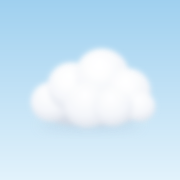
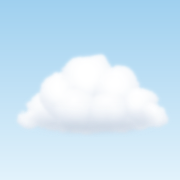
버전2: 구름을 크고 사실적으로, 상자 없이 물 위에 반투명하게 띄움
- cloud.svg: 노이즈로 몽실몽실한 가장자리, 아래 푸른 그늘·위 햇빛 하이라이트
- 로고 상자 제거, 최대 340px로 키우고 반투명(90%) + 은은한 그림자 + 천천히 떠다니는 움직임
- 움직임 줄이기 설정이면 멈춤, 다크 모드는 조금 더 투명하게
- 탭 아이콘·홈 화면 아이콘·공유 썸네일도 새 구름으로 다시 그림

diff --git a/감정책방.html b/감정책방.html
@@ -67,9 +67,12 @@ header p{margin:0;color:var(--muted)}
 :root{--hero-bg:rgba(255,255,255,.8);--hero-h:#061b42;--hero-sub:#0a2e70dd;--hero-desc:#444}
 @media (prefers-color-scheme:dark){:root:not([data-theme="light"]){--hero-bg:rgba(41,35,35,.85);--hero-h:#e3ebff;--hero-sub:#b3c6f0;--hero-desc:#c9bdb8}}
 :root[data-theme="dark"]{--hero-bg:rgba(41,35,35,.85);--hero-h:#e3ebff;--hero-sub:#b3c6f0;--hero-desc:#c9bdb8}
-.thumb{display:block;width:120px;height:120px;margin:0 auto 10px;padding:12px;box-sizing:border-box;object-fit:contain;background:linear-gradient(180deg,#bfe0f4 0%,#e4f2fb 100%);border-radius:16px;box-shadow:0 4px 8px rgba(6,27,66,.15)}
-@media (prefers-color-scheme:dark){:root:not([data-theme="light"]) .thumb{background:linear-gradient(180deg,#3a5f85 0%,#6f93b8 100%)}}
-:root[data-theme="dark"] .thumb{background:linear-gradient(180deg,#3a5f85 0%,#6f93b8 100%)}
+/* 버전2: 상자 없이 물 위에 반투명하게 떠 있는 큰 구름 */
+.thumb{display:block;width:min(340px,82vw);height:auto;margin:-6px auto -18px;opacity:.9;filter:drop-shadow(0 22px 18px rgba(40,90,140,.22));animation:cloud-float 8s ease-in-out infinite;position:relative;z-index:1}
+@keyframes cloud-float{0%,100%{transform:translate(0,0)}50%{transform:translate(6px,-9px)}}
+@media (prefers-reduced-motion:reduce){.thumb{animation:none}}
+@media (prefers-color-scheme:dark){:root:not([data-theme="light"]) .thumb{opacity:.82;filter:drop-shadow(0 22px 18px rgba(0,0,0,.35))}}
+:root[data-theme="dark"] .thumb{opacity:.82;filter:drop-shadow(0 22px 18px rgba(0,0,0,.35))}
 .header-area{align-self:stretch;text-align:left;background:var(--hero-bg);border-radius:12px;padding:1.8rem 2rem;box-shadow:0 4px 8px rgba(0,0,0,.05)}
 .header-area h1{font-family:var(--sans);font-weight:700;font-size:2.4rem;letter-spacing:.1em;margin:0 0 .4rem;color:var(--hero-h);line-height:1.3}
 .header-area p.subtitle{font-weight:500;font-size:1.2rem;letter-spacing:.08em;margin:0 0 .8rem;color:var(--hero-sub)}
@@ -156,7 +159,7 @@ form button:disabled{opacity:.5;cursor:default}
   </div>
 
   <header>
-    <img class="thumb" src="cloud.svg" alt="마음버블서점 구름 로고" width="120" height="120">
+    <img class="thumb" src="cloud.svg" alt="마음버블서점 구름 로고" width="340" height="204">
     <div class="header-area">
       <h1 data-i18n="title">마음버블서점</h1>
       <p class="subtitle" data-i18n="sub">당신의 마음을 비우고 채우다</p>
